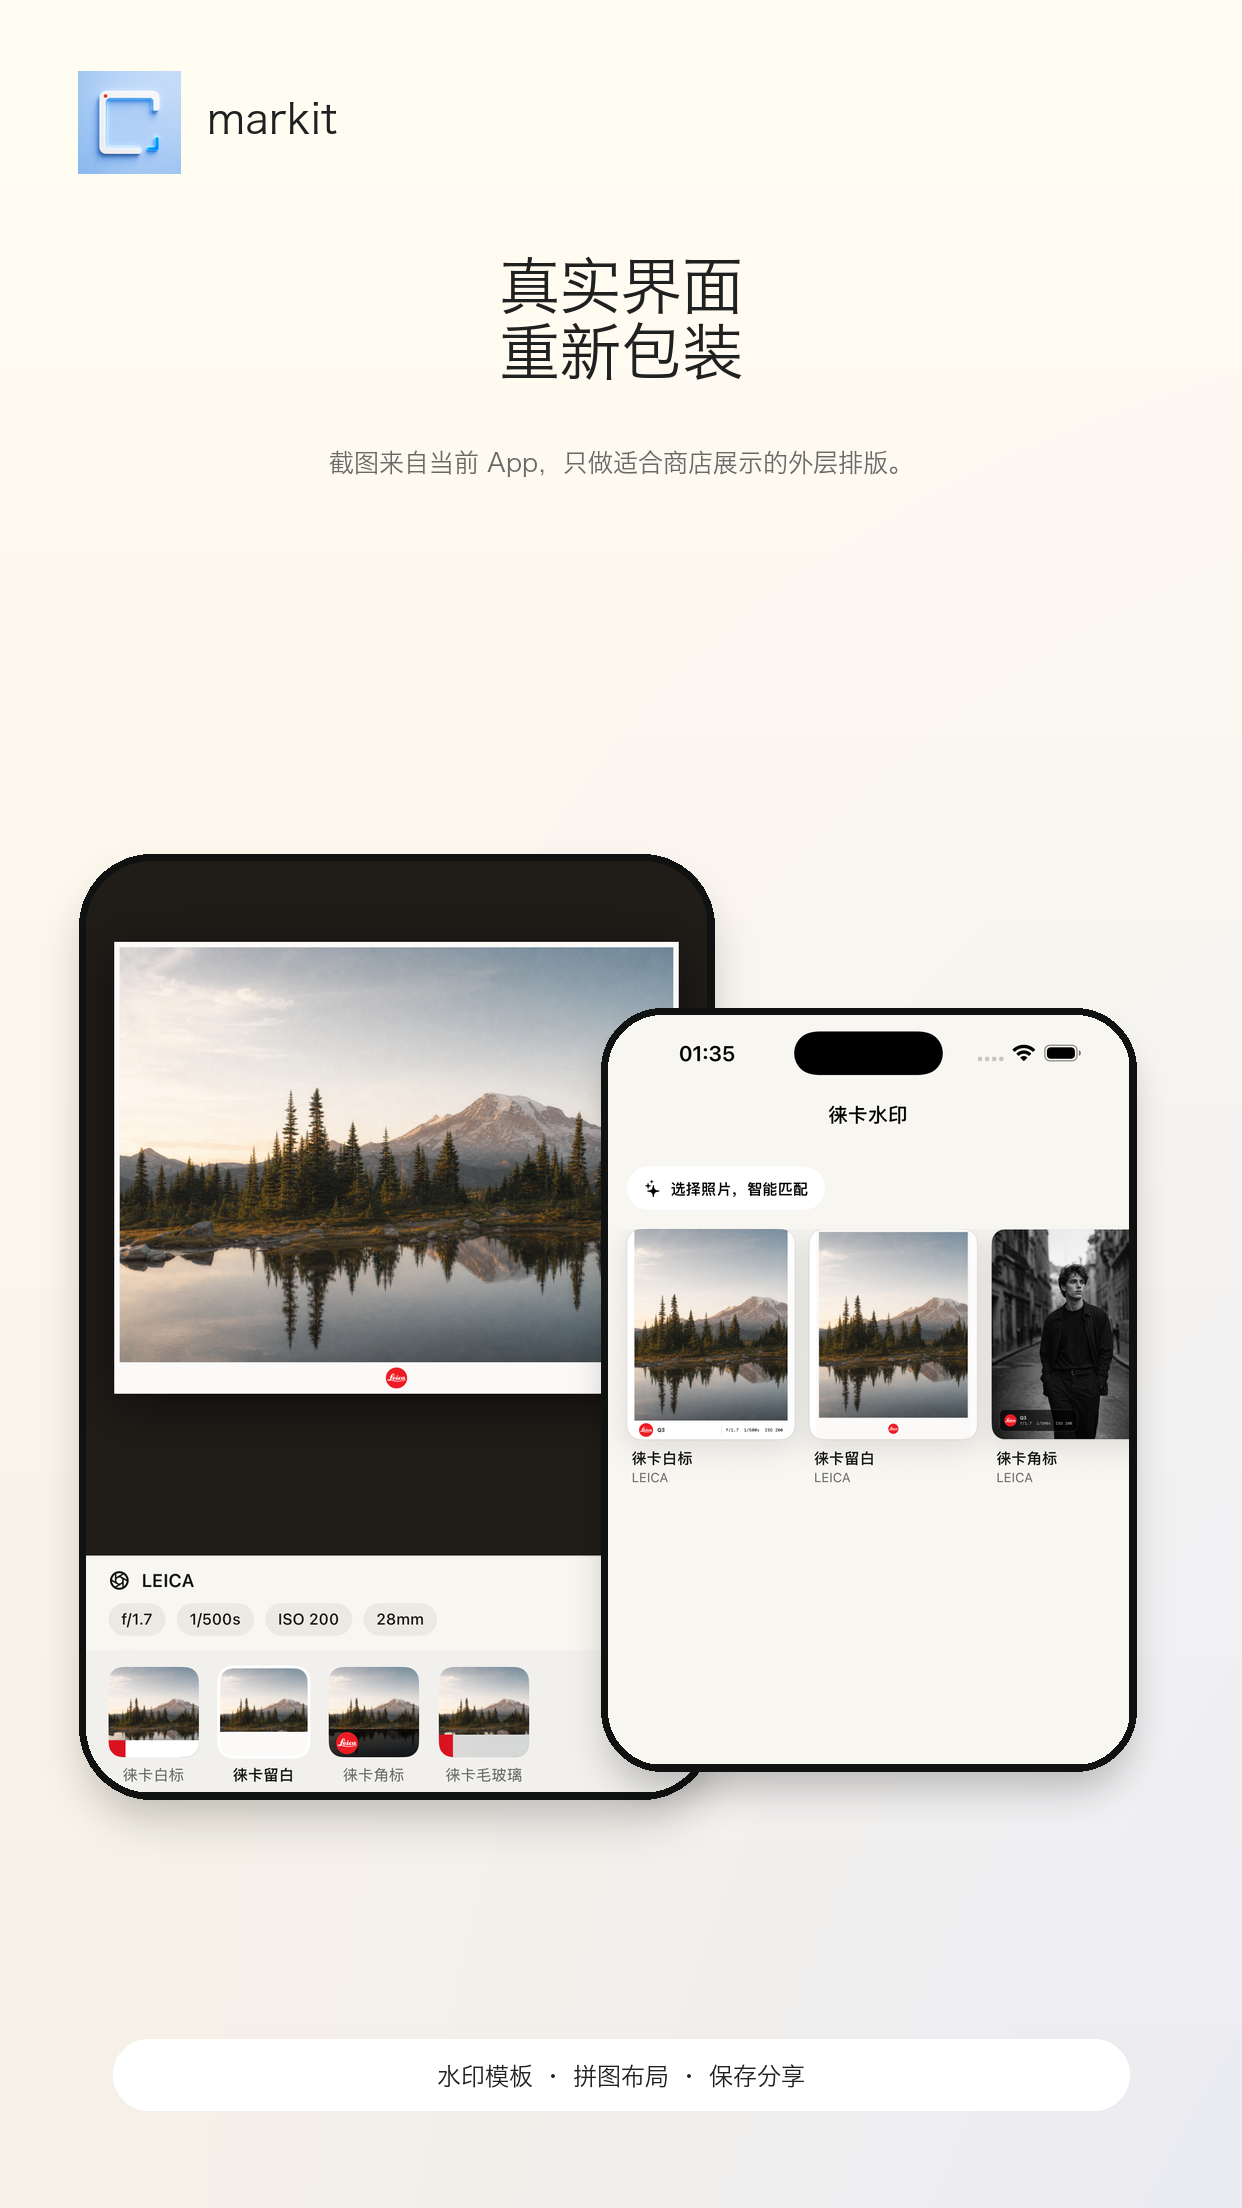
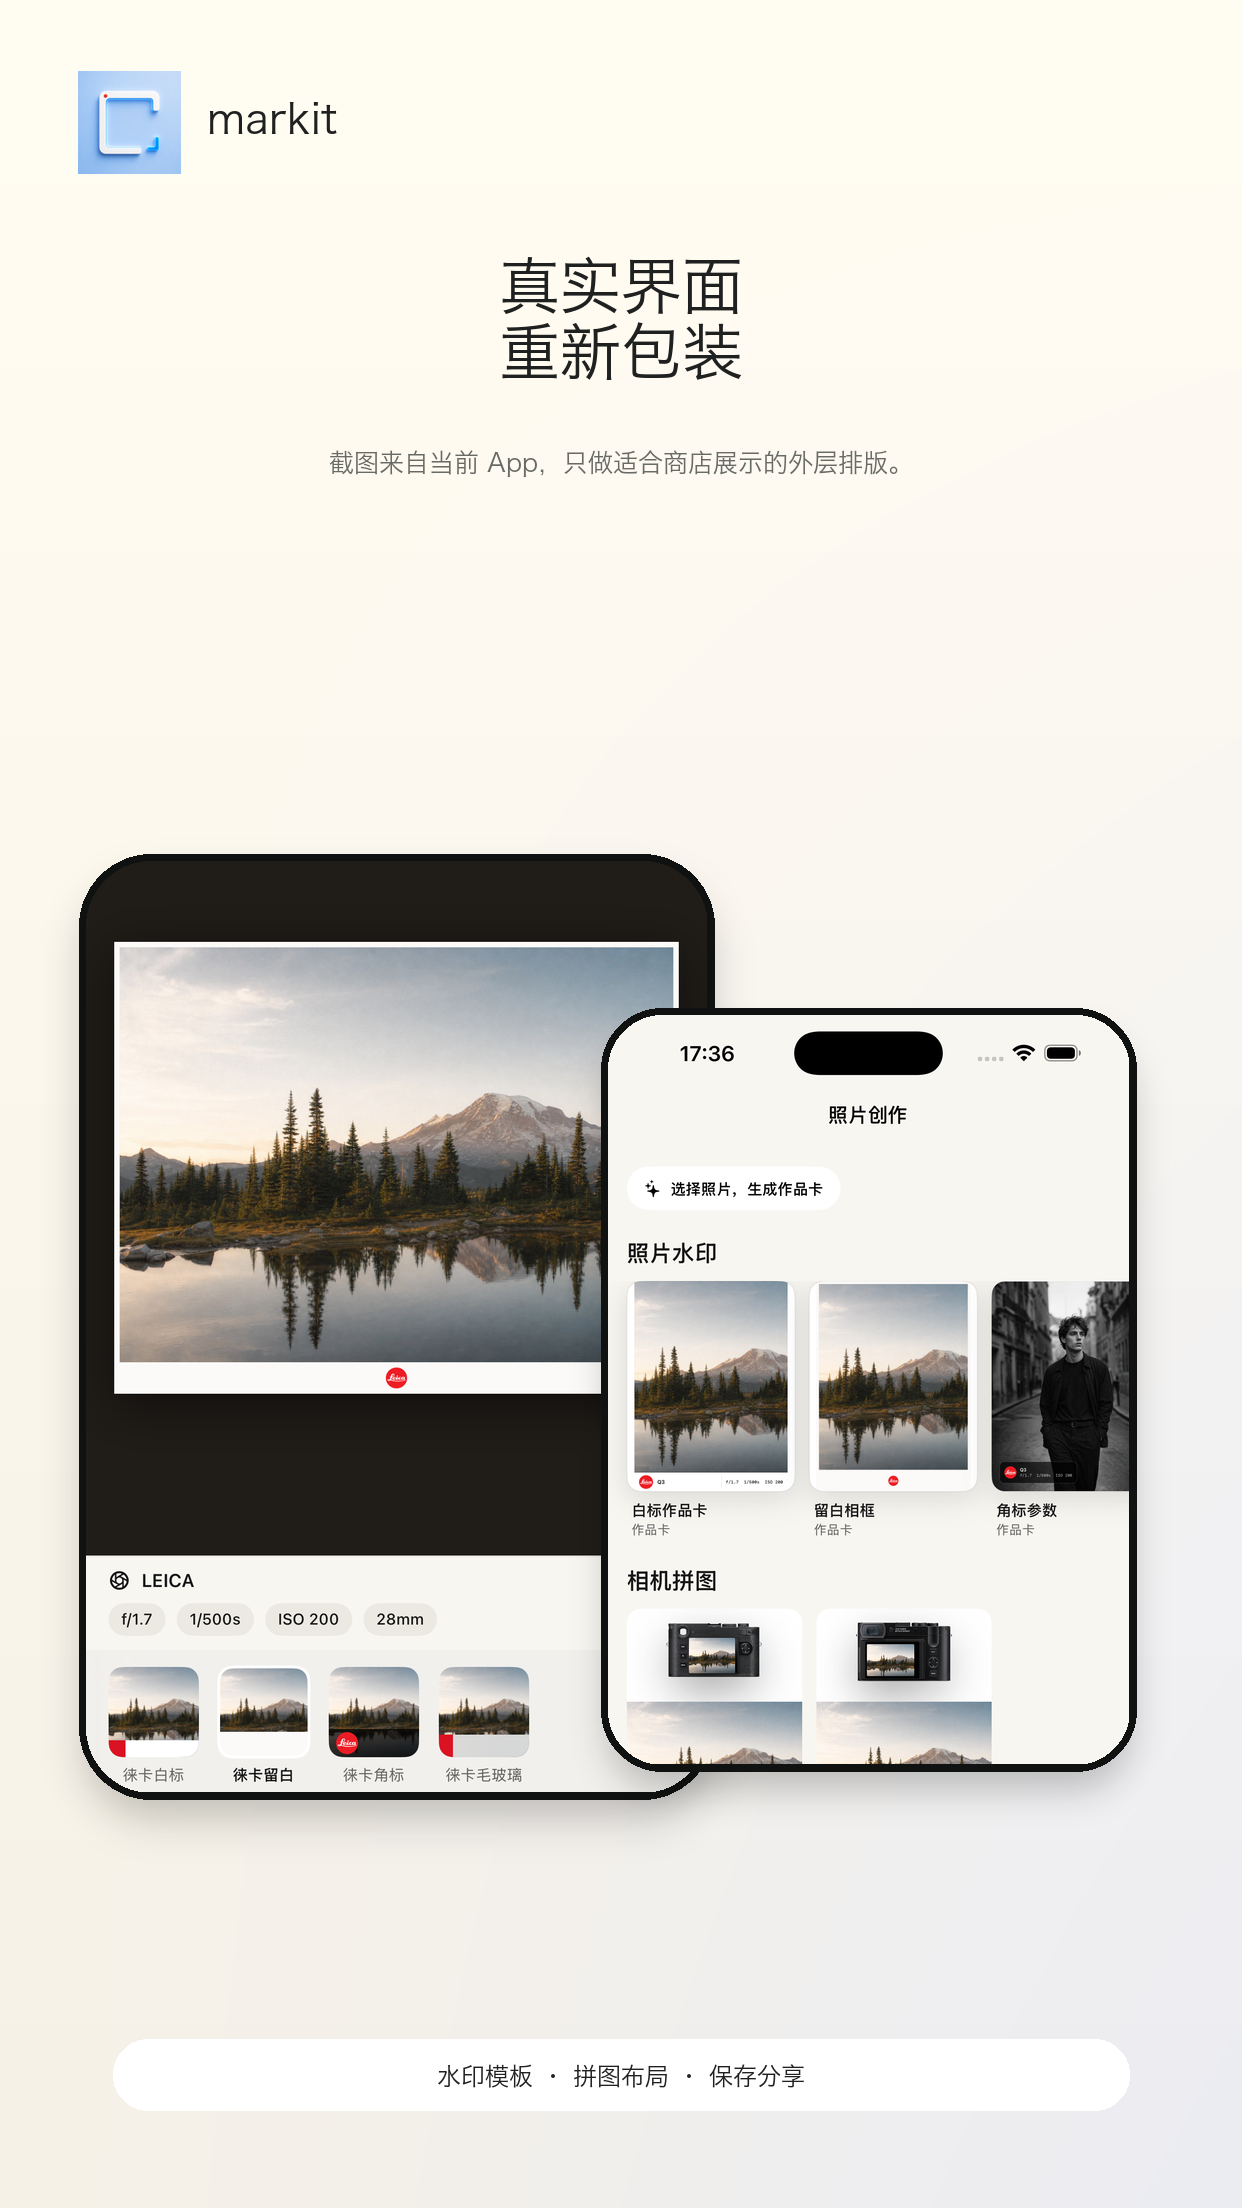
Unify creation home screen

Changed region(s): [[0.4895, 0.5, 0.9179, 0.8125], [0.5507, 0.4688, 0.5813, 0.5]]

diff --git a/Markit/Views/Tabs/WatermarkTab.swift b/Markit/Views/Tabs/WatermarkTab.swift
@@ -1,10 +1,15 @@
 import SwiftUI
 import PhotosUI
 
-// Watermark tab: grouped browse rows for all 16 templates. Tap a card to pick a photo,
-// then jump into EditorView with the chosen template + image.
+// Unified creation hub: watermark templates and collage layouts live on one page.
 struct WatermarkTab: View {
+    enum InitialFocus {
+        case watermark
+        case puzzle
+    }
+
     var preselectedTemplate: WatermarkTemplate? = nil
+    var initialFocus: InitialFocus = .watermark
 
     @State private var selectedTemplate: WatermarkTemplate?
     @State private var pickerItem: PhotosPickerItem?
@@ -15,20 +20,33 @@ struct WatermarkTab: View {
     @State private var navigate = false
     @State private var errorMessage: String?
     @State private var didApplyPreselection = false
+    @State private var didApplyInitialFocus = false
+    @State private var openQuickLayout = false
 
     var body: some View {
         NavigationStack {
-            ScrollView {
-                VStack(alignment: .leading, spacing: AppTheme.Spacing.l) {
-                    intro
-                    ForEach(BrowseCatalog.watermarkSections) { section in
-                        watermarkSection(section)
+            ScrollViewReader { proxy in
+                ScrollView {
+                    VStack(alignment: .leading, spacing: AppTheme.Spacing.xl) {
+                        intro
+
+                        ForEach(BrowseCatalog.watermarkSections) { section in
+                            watermarkSection(section)
+                        }
+
+                        ForEach(BrowseCatalog.puzzleSections) { section in
+                            puzzleSection(section)
+                        }
                     }
+                    .padding(.top, AppTheme.Spacing.m)
+                    .padding(.bottom, 104)
                 }
-                .padding(.top, AppTheme.Spacing.m)
-                .padding(.bottom, 104)
+                .onAppear {
+                    applyPreselectionIfNeeded()
+                    applyInitialFocusIfNeeded(proxy)
+                }
             }
-            .navigationTitle("徕卡水印")
+            .navigationTitle("照片创作")
             .navigationBarTitleDisplayMode(.inline)
             .overlay(alignment: .bottomTrailing) {
                 FloatingCreateButton { begin() }
@@ -48,18 +66,15 @@ struct WatermarkTab: View {
                     EditorView(image: img, initialMetadata: metadata, initialTemplate: tpl)
                 }
             }
+            .navigationDestination(isPresented: $openQuickLayout) {
+                PuzzleEditorView(layout: .cameraDetail)
+            }
             .photosPicker(
                 isPresented: $showPhotoPicker,
                 selection: $pickerItem,
                 matching: .images,
                 photoLibrary: .shared()
             )
-            .onAppear {
-                if !didApplyPreselection, let pre = preselectedTemplate {
-                    didApplyPreselection = true
-                    begin(pre)
-                }
-            }
             .onChange(of: pickerItem) { newItem in
                 guard let newItem else { return }
                 Task { await load(newItem) }
@@ -90,7 +105,7 @@ struct WatermarkTab: View {
         Button {
             begin()
         } label: {
-            Label("选择照片，智能匹配", systemImage: "sparkles")
+            Label("选择照片，生成作品卡", systemImage: "sparkles")
                 .font(AppTheme.Font.small.weight(.semibold))
                 .foregroundColor(.black)
                 .padding(.horizontal, 14)
@@ -103,6 +118,8 @@ struct WatermarkTab: View {
 
     private func watermarkSection(_ section: BrowseSection) -> some View {
         VStack(alignment: .leading, spacing: AppTheme.Spacing.m) {
+            SectionHeader(title: section.title, trailing: nil)
+
             ScrollView(.horizontal, showsIndicators: false) {
                 HStack(spacing: AppTheme.Spacing.m) {
                     ForEach(section.items) { item in
@@ -122,6 +139,31 @@ struct WatermarkTab: View {
                 .padding(.horizontal, AppTheme.Spacing.l)
             }
         }
+        .id(section.id)
+    }
+
+    private func puzzleSection(_ section: BrowseSection) -> some View {
+        VStack(alignment: .leading, spacing: AppTheme.Spacing.m) {
+            SectionHeader(title: section.title, trailing: nil)
+
+            ScrollView(.horizontal, showsIndicators: false) {
+                HStack(spacing: AppTheme.Spacing.m) {
+                    ForEach(section.items) { item in
+                        if case .puzzle(let layout) = item {
+                            NavigationLink {
+                                PuzzleEditorView(layout: layout)
+                            } label: {
+                                PuzzleLayoutCard(layout: layout, width: 148, height: 184)
+                            }
+                            .buttonStyle(.plain)
+                            .accessibilityLabel("打开\(layout.displayName)")
+                        }
+                    }
+                }
+                .padding(.horizontal, AppTheme.Spacing.l)
+            }
+        }
+        .id(section.id)
     }
 
     private func begin(_ template: WatermarkTemplate? = nil) {
@@ -162,6 +204,24 @@ struct WatermarkTab: View {
         loadedImage = nil
         metadata = .empty
         showPhotoPicker = false
+    }
+
+    private func applyPreselectionIfNeeded() {
+        if !didApplyPreselection, let pre = preselectedTemplate {
+            didApplyPreselection = true
+            begin(pre)
+        }
+    }
+
+    private func applyInitialFocusIfNeeded(_ proxy: ScrollViewProxy) {
+        guard !didApplyInitialFocus else { return }
+        didApplyInitialFocus = true
+        guard initialFocus == .puzzle, let target = BrowseCatalog.puzzleSections.first?.id else { return }
+        DispatchQueue.main.asyncAfter(deadline: .now() + 0.25) {
+            withAnimation(.easeInOut(duration: 0.35)) {
+                proxy.scrollTo(target, anchor: .top)
+            }
+        }
     }
 }
 

diff --git a/Markit/Models/BrowseCatalog.swift b/Markit/Models/BrowseCatalog.swift
@@ -29,14 +29,14 @@ enum BrowseCatalog {
     static let discoverSections: [BrowseSection] = [
         BrowseSection(
             id: "watermark",
-            title: "徕卡水印",
-            subtitle: "4 个徕卡样式，自动读取照片参数",
+            title: "照片水印",
+            subtitle: "自动读取照片参数，生成干净作品卡",
             destination: .watermark,
             items: WatermarkTemplate.leicaTemplates.map { .watermark($0) }
         ),
         BrowseSection(
             id: "camera-vs-photo",
-            title: "徕卡相机拼图",
+            title: "相机拼图",
             subtitle: "取景框里是照片，下方是成片",
             destination: .puzzle,
             items: [
@@ -47,8 +47,8 @@ enum BrowseCatalog {
 
     static let watermarkSections: [BrowseSection] = [
         BrowseSection(
-            id: "leica",
-            title: "徕卡水印",
+            id: "photo-watermark",
+            title: "照片水印",
             subtitle: "选择一张照片，自动读取 ISO、光圈、快门和机型",
             destination: .watermark,
             items: WatermarkTemplate.leicaTemplates.map { .watermark($0) }
@@ -57,9 +57,9 @@ enum BrowseCatalog {
 
     static let puzzleSections: [BrowseSection] = [
         BrowseSection(
-            id: "leica-camera",
-            title: "徕卡相机拼图",
-            subtitle: "上方徕卡相机取景框嵌入照片，下方展示原片",
+            id: "camera-collage",
+            title: "相机拼图",
+            subtitle: "上方相机取景框嵌入照片，下方展示原片",
             destination: .puzzle,
             items: [
                 .puzzle(.cameraDetail),

diff --git a/Markit/Models/WatermarkTemplate.swift b/Markit/Models/WatermarkTemplate.swift
@@ -42,13 +42,13 @@ enum WatermarkTemplate: String, CaseIterable, Identifiable, Hashable {
 
     var displayName: String {
         switch self {
-        case .leica:        return "徕卡白标"
-        case .leica_mono:   return "徕卡黑白"
-        case .leica_frame:  return "徕卡相纸"
-        case .leica_compact:return "徕卡角标"
-        case .leica_gallery:return "徕卡画廊"
-        case .leica_glass:  return "徕卡毛玻璃"
-        case .leica_white_space: return "徕卡留白"
+        case .leica:        return "白标作品卡"
+        case .leica_mono:   return "黑白作品卡"
+        case .leica_frame:  return "相纸边框"
+        case .leica_compact:return "角标参数"
+        case .leica_gallery:return "画廊留白"
+        case .leica_glass:  return "毛玻璃"
+        case .leica_white_space: return "留白相框"
         case .fujifilm:     return "富士暗调"
         case .fuji_strip:   return "富士胶片"
         case .sony:         return "索尼 Alpha"
@@ -71,7 +71,7 @@ enum WatermarkTemplate: String, CaseIterable, Identifiable, Hashable {
     var brandLabel: String {
         switch self {
         case .leica, .leica_mono, .leica_frame, .leica_compact, .leica_gallery,
-             .leica_glass, .leica_white_space, .film_border, .gallery_frame: return "LEICA"
+             .leica_glass, .leica_white_space, .film_border, .gallery_frame: return "作品卡"
         case .fujifilm, .fuji_strip:return "FUJIFILM"
         case .sony:                 return "SONY"
         case .hasselblad:           return "HASSELBLAD"

diff --git a/Markit/Views/HomeView.swift b/Markit/Views/HomeView.swift
@@ -1,39 +1,19 @@
 import SwiftUI
 
-/// App 根视图：徕卡水印 / 相机拼图。
-/// 实际的选图、模板列表、编辑流程都下放到每个 Tab 自己处理。
+/// App root view: a single creation hub for photo cards and collages.
 struct HomeView: View {
     enum Tab: Hashable { case discover, watermark, puzzle, me }
 
-    @State private var tab: Tab
+    private let initialTab: Tab
 
     init(initialTab: Tab = .watermark) {
-        self._tab = State(initialValue: initialTab)
+        self.initialTab = initialTab
     }
 
     var body: some View {
-        TabView(selection: $tab) {
-            WatermarkTab()
-                .tabItem { Label("徕卡水印", systemImage: "camera.aperture") }
-                .tag(Tab.watermark)
-
-            PuzzleTab()
-                .tabItem { Label("相机拼图", systemImage: "rectangle.on.rectangle") }
-                .tag(Tab.puzzle)
-        }
+        WatermarkTab(initialFocus: initialTab == .puzzle ? .puzzle : .watermark)
         .tint(.black)
         .preferredColorScheme(.light)
-        .onAppear(perform: configureTabBarAppearance)
-    }
-
-    private func configureTabBarAppearance() {
-        let appearance = UITabBarAppearance()
-        appearance.configureWithDefaultBackground()
-        appearance.backgroundColor = UIColor(red: 0.98, green: 0.965, blue: 0.94, alpha: 0.94)
-        appearance.shadowColor = UIColor.black.withAlphaComponent(0.08)
-
-        UITabBar.appearance().standardAppearance = appearance
-        UITabBar.appearance().scrollEdgeAppearance = appearance
     }
 }
 

diff --git a/Markit/Models/PuzzleLayout.swift b/Markit/Models/PuzzleLayout.swift
@@ -23,8 +23,8 @@ enum PuzzleLayout: String, CaseIterable, Identifiable, Hashable {
         case .vertical2:    return "上下双图"
         case .horizontal2:  return "左右对比"
         case .grid4:        return "四宫格"
-        case .cameraDetail: return "徕卡 M11 拼图"
-        case .cameraDetailQ3: return "徕卡 Q3 拼图"
+        case .cameraDetail: return "经典相机拼图"
+        case .cameraDetailQ3: return "轻便相机拼图"
         case .polaroidStack: return "拍立得散落"
         case .filmStrip:    return "胶片条"
         case .magazineCover: return "杂志封面"

diff --git a/AppStoreAssets/scripts/generate_app_store_screenshots.py b/AppStoreAssets/scripts/generate_app_store_screenshots.py
@@ -214,7 +214,7 @@ def main():
         page(
             size,
             "相机拼图\n做成作品封面",
-            "拼图页使用真实卡片和底部 Tab，外层只做商店级包装。",
+            "拼图区域使用真实卡片，外层只做商店级包装。",
             "puzzle",
             (name, "03-real-puzzle-tab.png"),
             badges=["M11 / Q3", "小红书 / Ins", "多图布局"],
